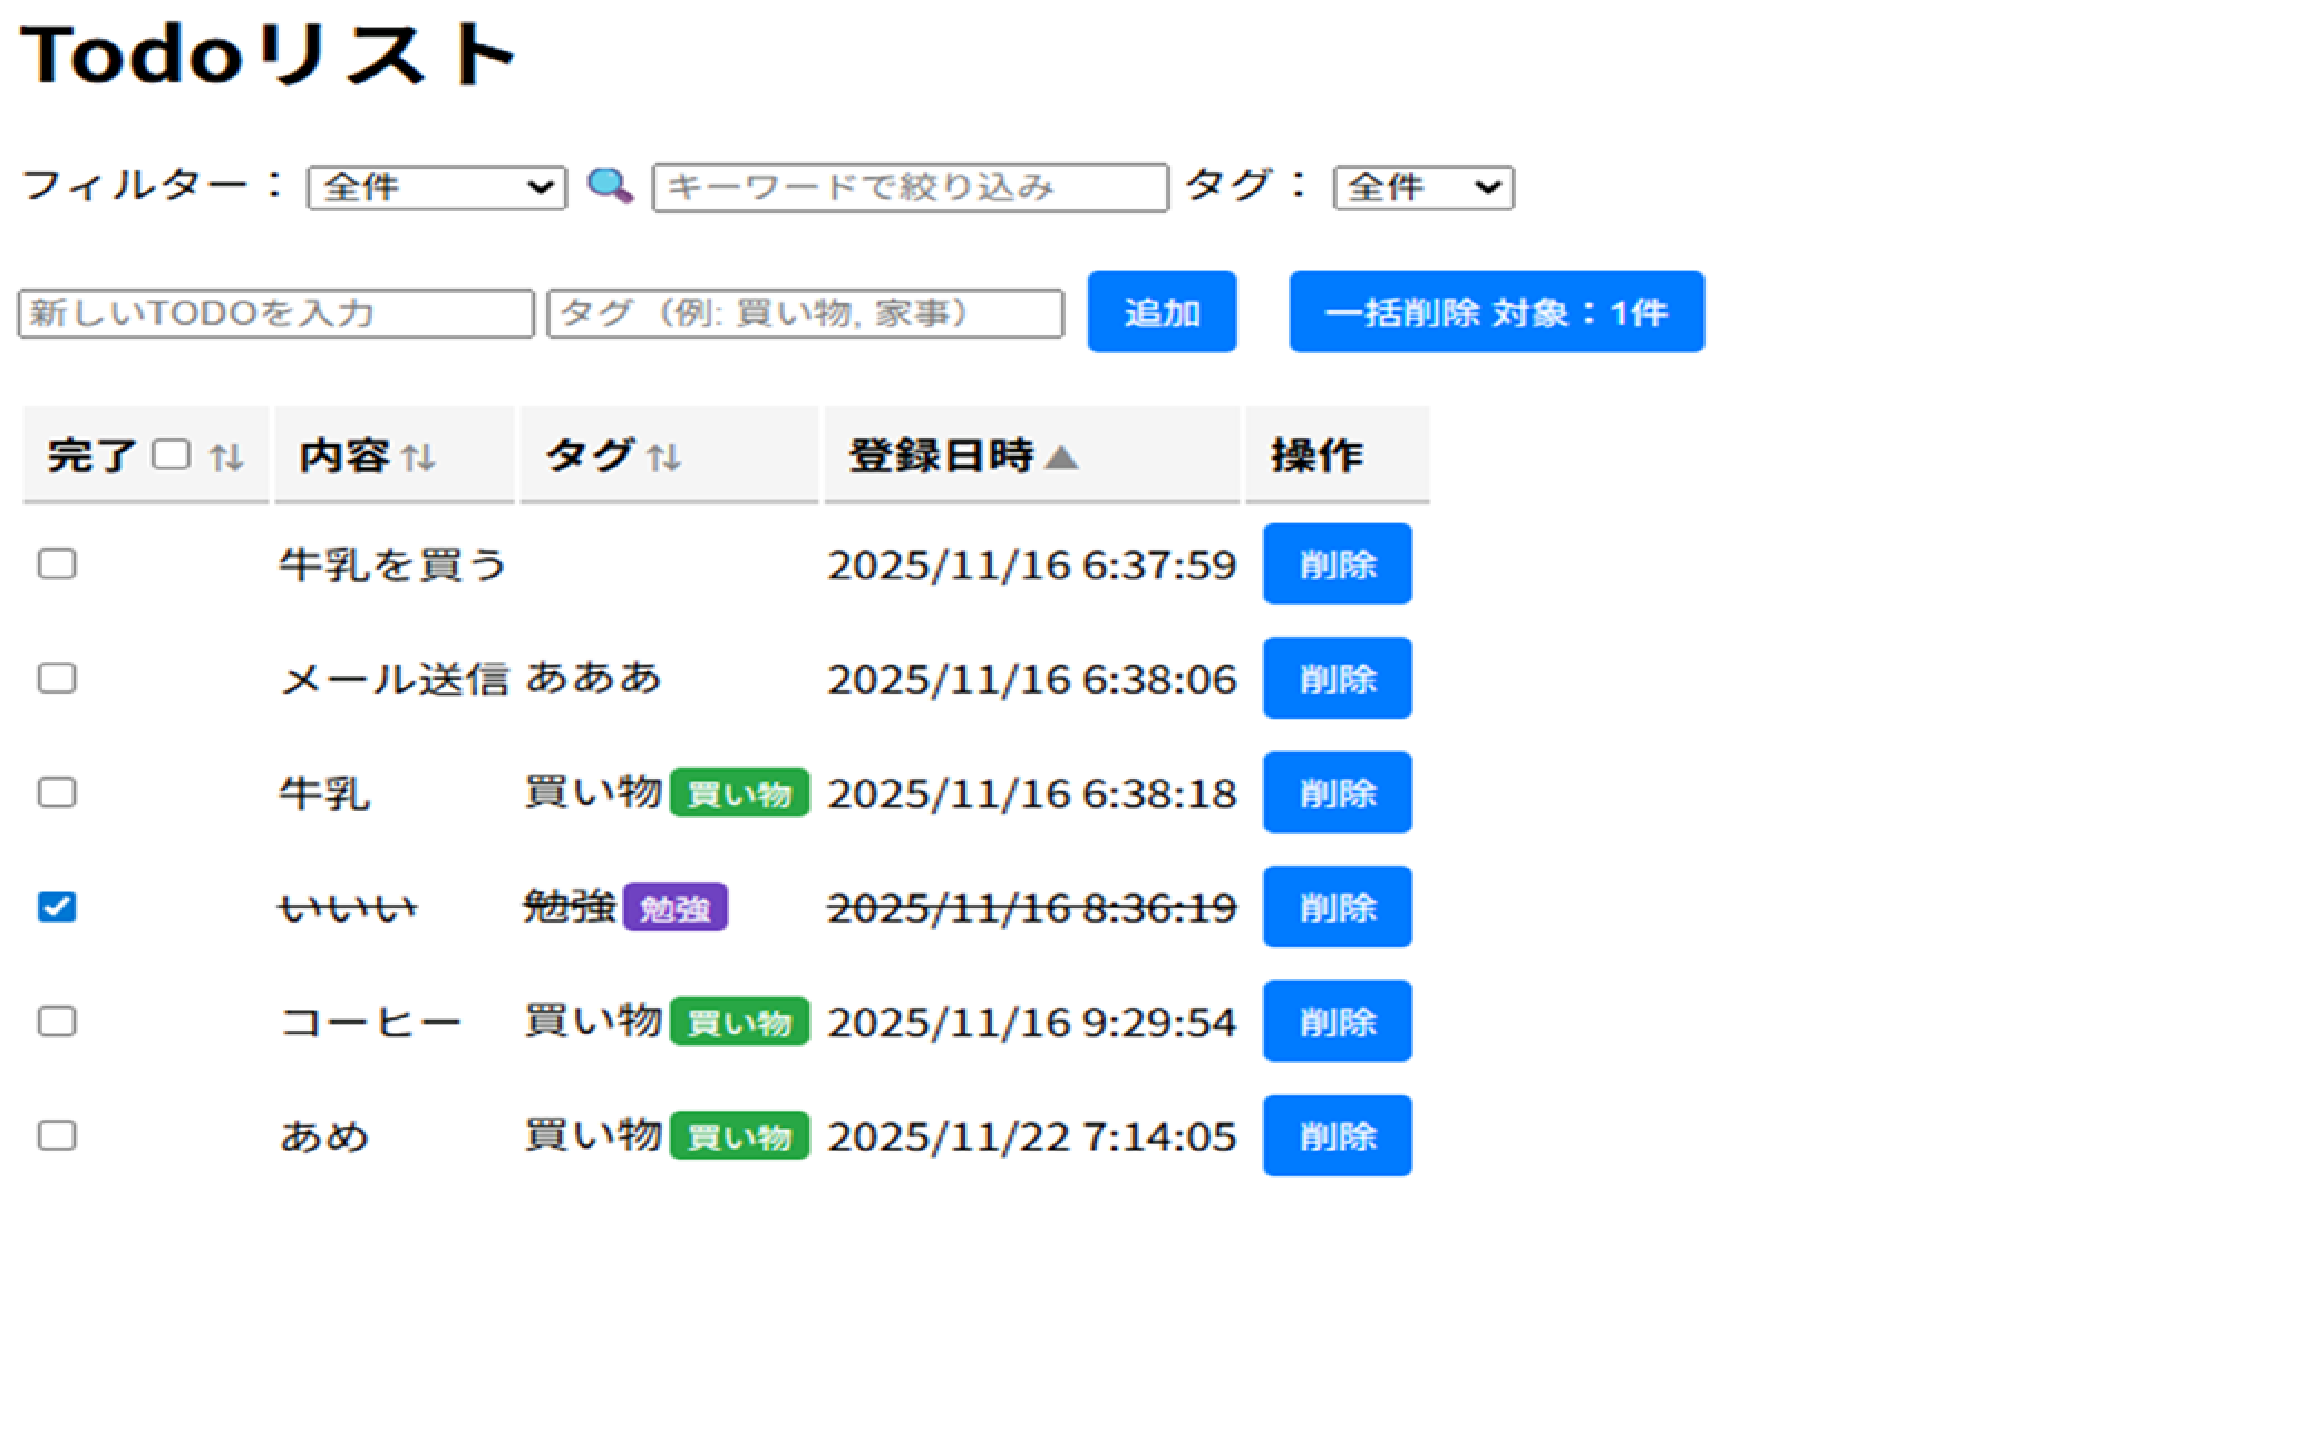
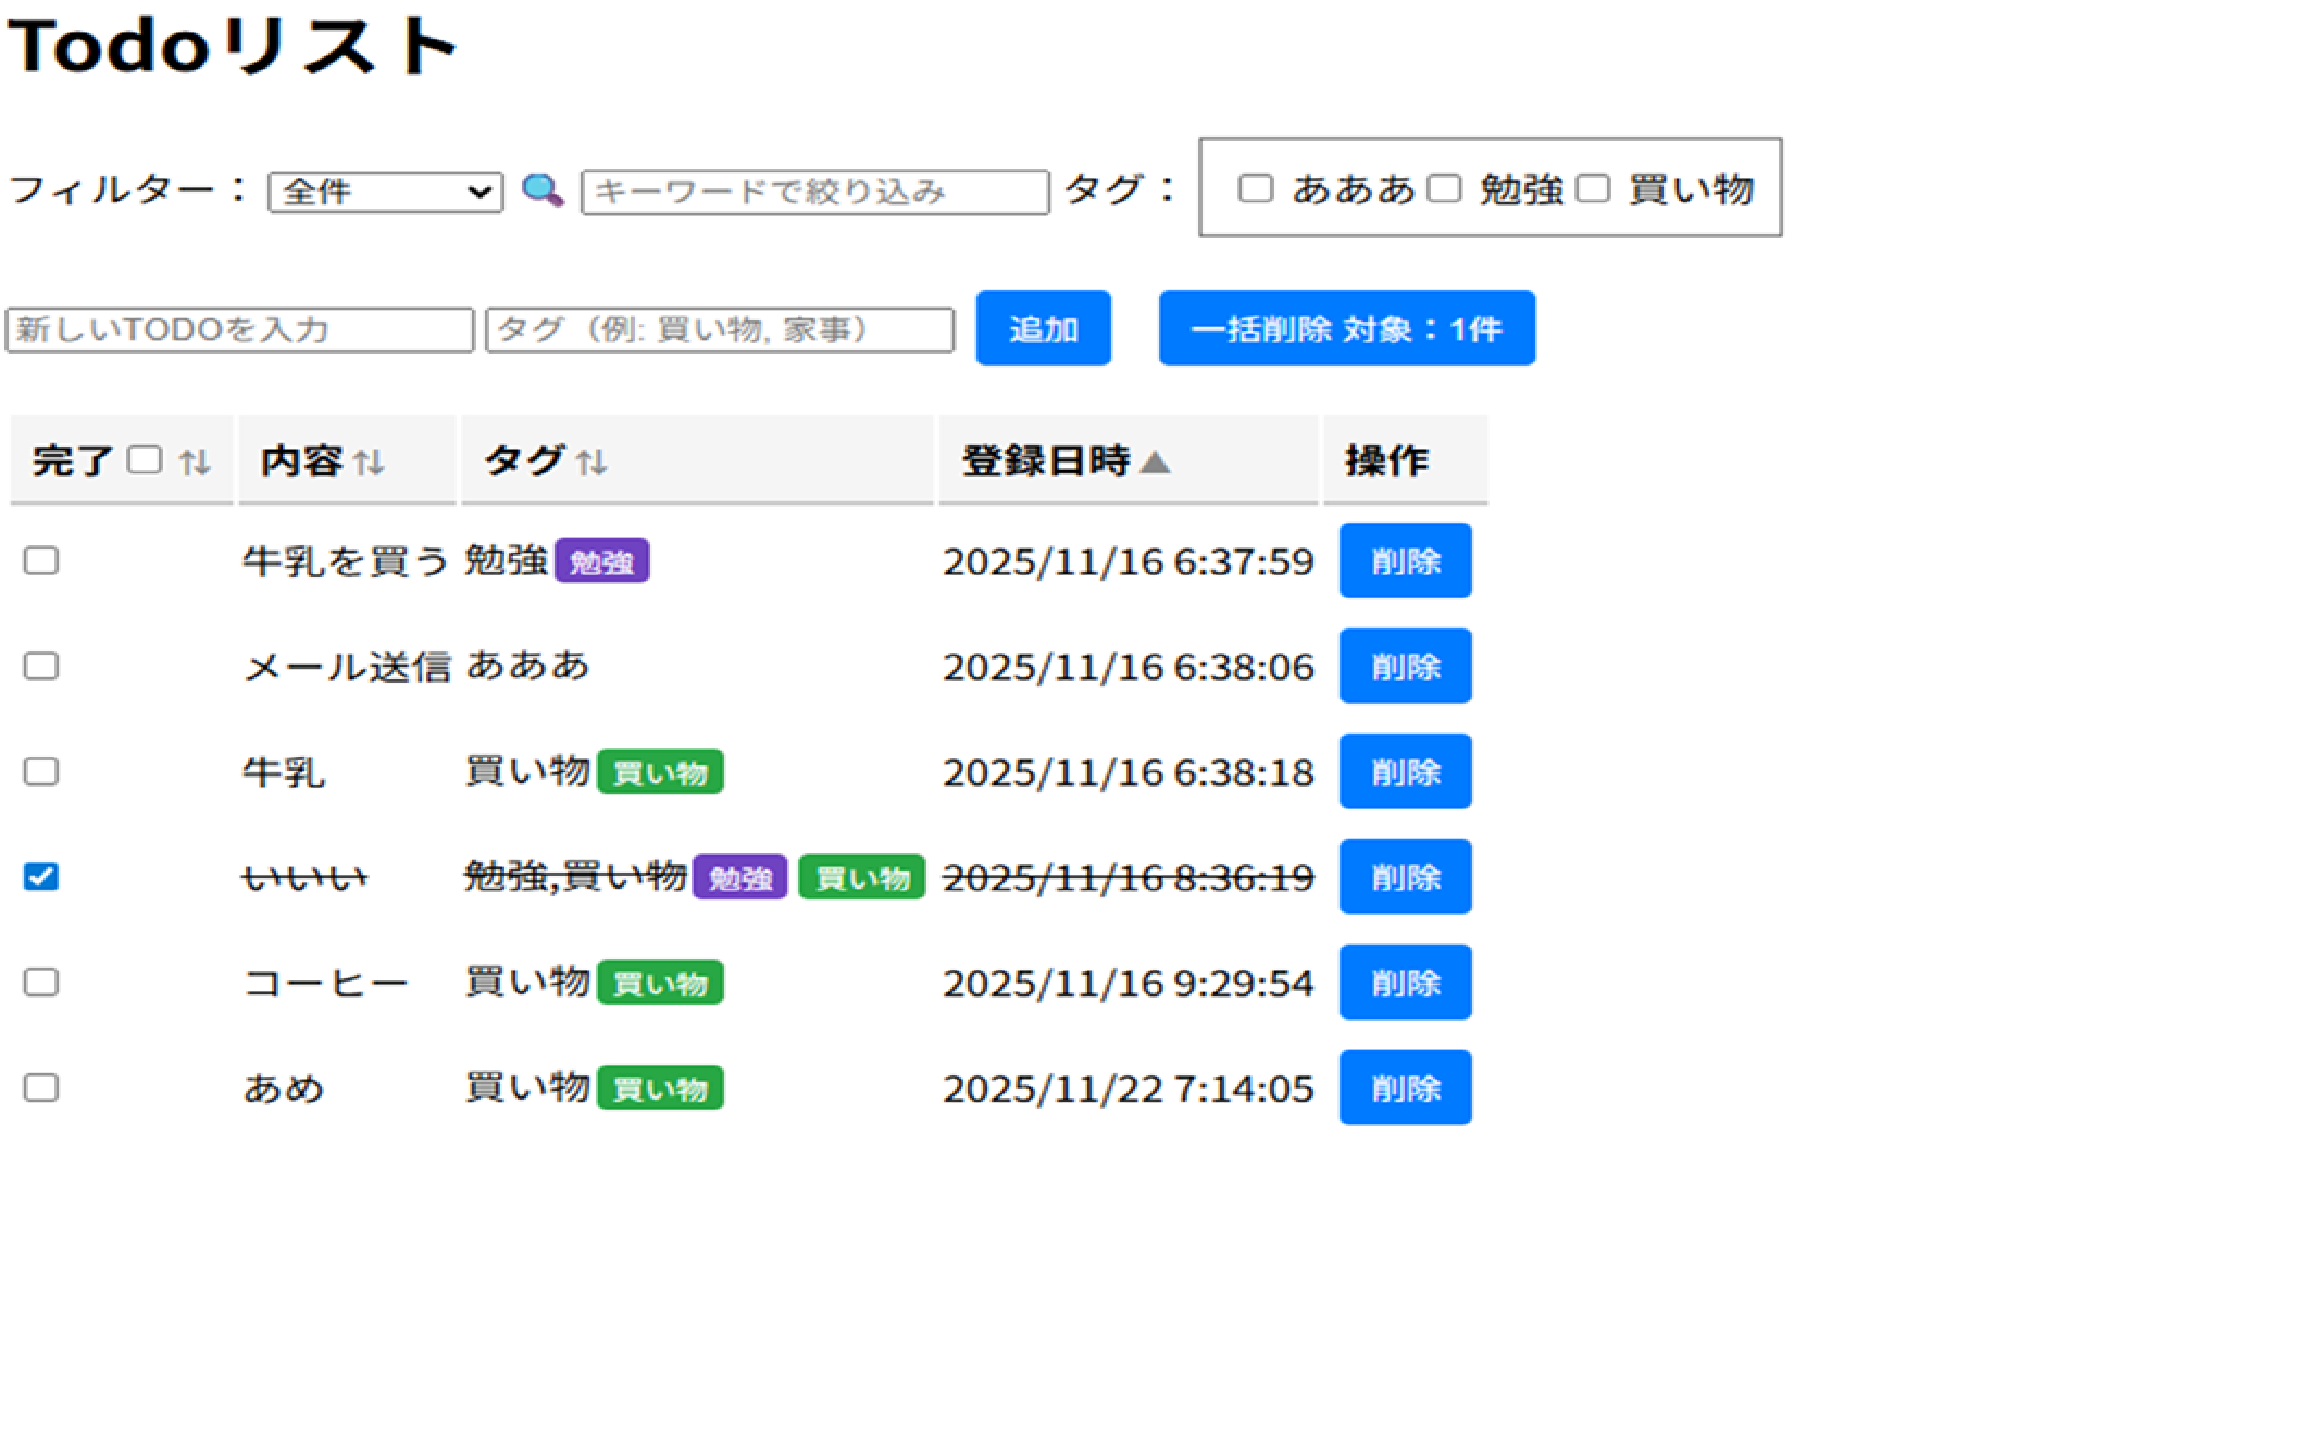
Merge：複数タグ対応（チェックボックスリスト使用）に変更

diff --git a/js/TodoList.js b/js/TodoList.js
@@ -4,24 +4,26 @@
 let isEditingId = 0;
 let filterIsDone = null; // null: 全件, 0: 完了済み, 1: 未完了
 let filterText = ""; // テキストフィルター用
-let filterTag = null; // タグフィルター用
 let sortKey = "id"; // ソートキー（id: 登録日時）
 let sortOrder = "asc"; // ソート順（asc: 昇順, desc: 降順）
 
 // TODOリストの取得と表示
 async function fetchTodos() {
   try {
+    const selectedTags = getSelectedTags();
+    const params = new URLSearchParams({
+      action: "list",
+      filterIsDone,
+      filterText,
+      sortKey,
+      sortOrder,
+    });
+    selectedTags.forEach((tag) => params.append("filterTags[]", tag));
     const res = await fetch("api/api.php", {
       method: "POST",
-      body: new URLSearchParams({
-        action: "list",
-        filterIsDone,
-        filterText,
-        filterTag,
-        sortKey,
-        sortOrder,
-      }),
+      body: params,
     });
+
     const todos = await res.json();
     updateHeaderCheckbox(todos); // ヘッダーチェックボックスの状態更新
     updateDoneCount(todos); // 一括削除ボタンの完了済み件数の更新
@@ -258,15 +260,20 @@ document.getElementById("textFilter").addEventListener("input", (e) => {
   fetchTodos();
 });
 
-// フィルターセレクト変更時の処理
-document.getElementById("tagsSelect").addEventListener("change", (e) => {
+// フィルター タグ変更時の処理
+document.getElementById("tagsCheckboxList").addEventListener("change", (e) => {
   FilterTodos_tags(e.target.value);
 });
 // フィルター適用
 function FilterTodos_tags(tags) {
-  filterTag = tags;
+  // filterTag = tags;
   isEditingId = 0; // 編集状態をリセット
   fetchTodos(); // TODOリストの取得と表示
+}
+function getSelectedTags() {
+  return Array.from(
+    document.querySelectorAll("#tagsCheckboxList input:checked")
+  ).map((cb) => cb.value);
 }
 
 // ソートヘッダークリック時の処理

diff --git a/js/TagsList.js b/js/TagsList.js
@@ -19,18 +19,17 @@ async function fetchTags() {
 
 // 🏷 タグの描画
 function renderTags(tags) {
-  const select = document.getElementById("tagsSelect");
-  select.innerHTML = "";
+  const container = document.getElementById("tagsCheckboxList");
+  container.innerHTML = "";
 
-  const tagOption = document.createElement("option");
-  tagOption.value = "null";
-  tagOption.textContent = "全件";
-  select.appendChild(tagOption);
-  tags.forEach((tag) => {
-    const tagOption = document.createElement("option");
-    tagOption.value = tag.tags;
-    tagOption.textContent = tag.tags;
-    select.appendChild(tagOption);
+  tags.forEach(tag => {
+    const label = document.createElement("label");
+    const checkbox = document.createElement("input");
+    checkbox.type = "checkbox";
+    checkbox.value = tag.tags;
+    label.appendChild(checkbox);
+    label.appendChild(document.createTextNode(" " + tag.tags));
+    container.appendChild(label);
   });
 }
 fetchTags(); // Tagsの取得と表示

diff --git a/css/style.css b/css/style.css
@@ -106,3 +106,10 @@ th.sortable.desc::after {
 .tag[data-tag="勉強"] {
   background-color: #6f42c1;
 }
+/* キー部のタグのdiv 改行しないようにしました */
+.StyledTagsDiv {
+  position: relative;
+  display: inline-block;
+  border: 1px solid #767676;
+  padding: 10px;
+}

diff --git a/api/api.php b/api/api.php
@@ -58,7 +58,7 @@ switch ($action) {
   case 'list':
     $filterIsDone = $_POST['filterIsDone'] ?? null;
     $filterText = $_POST['filterText'] ?? '';
-    $filterTag = $_POST['filterTag'] ?? "null";
+    $filterTags = $_POST['filterTags'] ?? [];
 
     $sql = "SELECT * FROM todos WHERE 1";
     $params = [];
@@ -75,9 +75,9 @@ switch ($action) {
       $params[] = '%' . $filterText . '%';
     }
 
-    if ($filterTag !== "null") {
+    foreach ($filterTags as $tag) {
       $sql .= " AND tags LIKE ?";
-      $params[] = '%' . $filterTag . '%';
+      $params[] = '%' . $tag . '%';
     }
 
     // ソート処理

diff --git a/TodoList.php b/TodoList.php
@@ -28,8 +28,7 @@
             </label>
             タグ：
             <!-- フィルター　🏷 タグ -->
-            <select id="tagsSelect">
-            </select>
+            <div id="tagsCheckboxList" class='StyledTagsDiv'></div>
             <br>
 
         </div>
